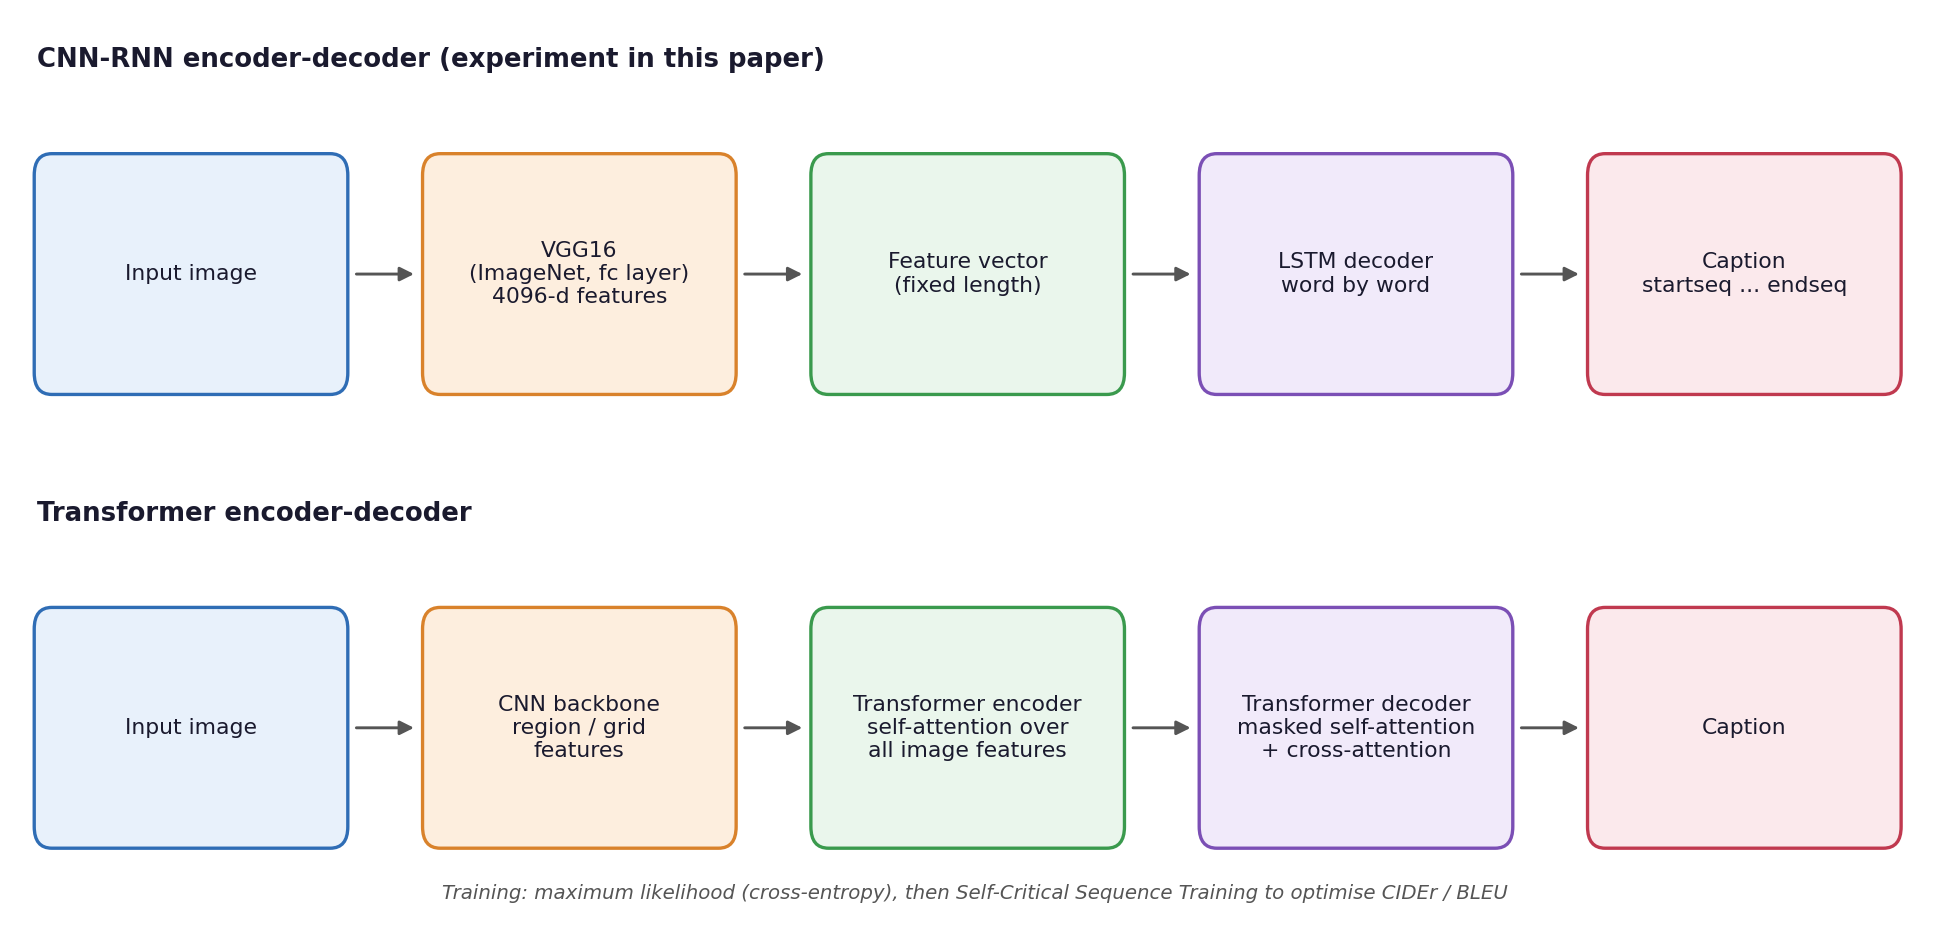
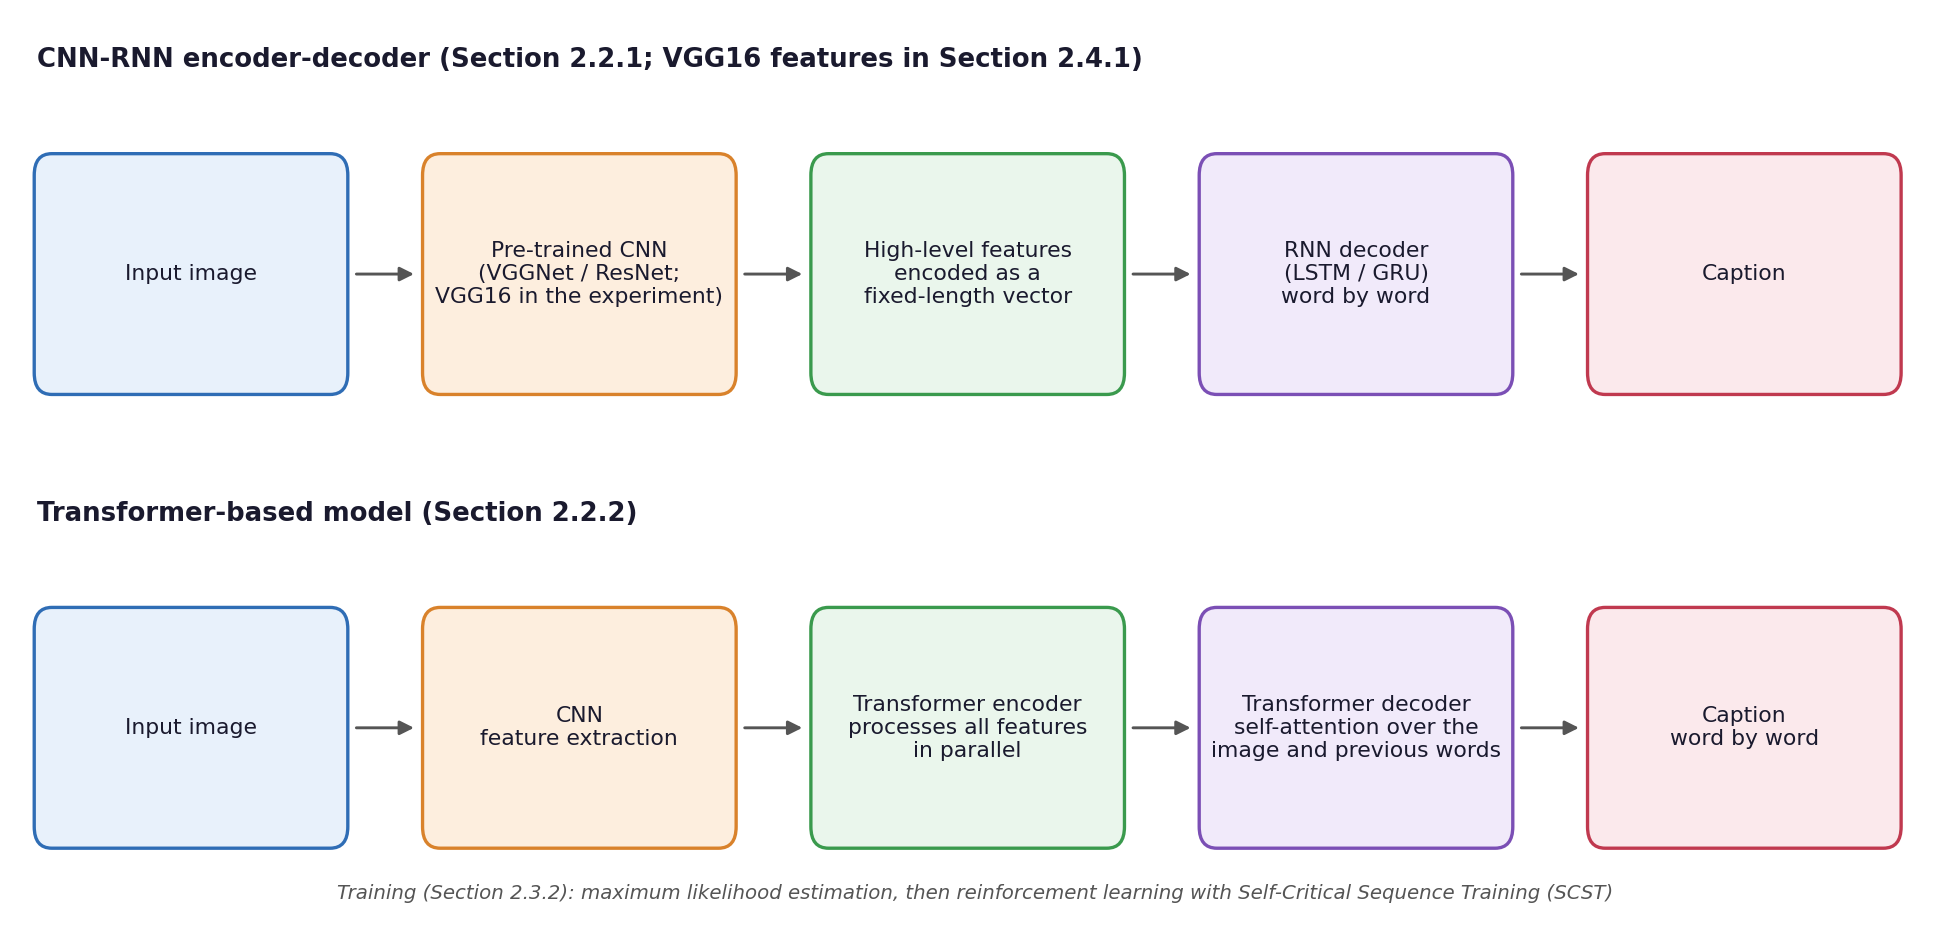
Align README and architecture diagram strictly with the paper; separate notebook notes

diff --git a/README.md b/README.md
@@ -2,11 +2,11 @@
 
 # Image Captioning: Transforming Objects into Words
 
-**From CNN-RNN encoder-decoders to Transformers: a review of deep-learning image captioning, with a VGG16 + LSTM experiment**
+**From CNN-RNN models to Transformers: a review of deep-learning image captioning, with a VGG16-based experiment**
 
 ![Field](https://img.shields.io/badge/field-Computer%20Vision%20%2B%20NLP-2f6db5)
 ![Models](https://img.shields.io/badge/models-VGG16%20%7C%20LSTM%20%7C%20Transformer-7b4fb5)
-![Data](https://img.shields.io/badge/data-MSCOCO%20%7C%20Flickr30k-3a9a4d)
+![Data](https://img.shields.io/badge/datasets-MSCOCO%20%7C%20Flickr30k-3a9a4d)
 ![Type](https://img.shields.io/badge/type-seminar%20paper-d9822b)
 
 [Read the paper (PDF)](paper/Image_Captioning_Transforming_Objects_into_Words.pdf) · [Open the notebook](code/image_captioning.ipynb)
@@ -20,46 +20,44 @@ Trends in Natural Language Processing (NLP Seminar) · Universität Trier · Sum
 
 ## Overview
 
-Image captioning sits where computer vision meets natural language processing. A model receives an image and
-writes a sentence that names the objects in it, how they relate to each other and the scene they belong to.
-Good captions make images accessible to blind and low-vision users, improve content-based image search and
-enable richer human-computer interaction.
+Image captioning lies at the intersection of computer vision and natural language processing: a model takes an
+image as input and produces a textual description of the objects in it, the relations between them and their
+context. Applications include accessibility for blind users, content-based image retrieval and more
+sophisticated human-computer interaction (Section 1.1).
 
-This paper traces how captioning models developed between 2015 and 2024, compares the two dominant
-architecture families on the MSCOCO and Flickr30k benchmarks, and trains a CNN-RNN captioner on an assistive
-dataset for visually impaired users (traffic signals, banknotes, ATMs, stairs, bus stops).
+The paper reviews deep-learning image captioning developments from 2015 to 2024, covering Convolutional Neural
+Networks, Recurrent Neural Networks and Transformers, and studies model architecture, data preprocessing,
+training and evaluation metrics (Abstract, Sections 1.2 and 2).
 
-**Research question**
+**Research question (Section 1.3)**
 
-> How can image captioning models be optimised to produce more accurate and contextually relevant descriptions?
+> How can image captioning models be optimized to produce more accurate and contextually relevant descriptions?
 
 ## Architecture
 
 ![Architecture](assets/architecture.png)
 
-| | CNN-RNN encoder-decoder | Transformer encoder-decoder |
+| | CNN-RNN models (Section 2.2.1) | Transformer-based models (Section 2.2.2) |
 |---|---|---|
-| **Visual encoder** | Pre-trained CNN (VGGNet, ResNet) compresses the image into one fixed-length vector | CNN features are passed as a sequence to a Transformer encoder |
-| **Language decoder** | LSTM or GRU generates the caption word by word | Transformer decoder attends to every image feature and every previous word |
-| **Strengths** | Fluent, grammatical sentences; light on compute and data | Captures long-range relations between objects; more accurate, context-aware captions |
-| **Weaknesses** | Focuses on local dependencies and can miss scene context | Computationally heavy; needs much more training data |
+| **Encoder** | A pre-trained CNN (e.g. VGGNet, ResNet) extracts high-level features, encoded into a fixed-length vector | CNN features are passed to Transformer encoders, which process all features in parallel |
+| **Decoder** | An RNN, often LSTM or GRU, generates the sentence conditioned on the previously generated words | A Transformer decoder generates the caption word by word, using self-attention over the whole image and all previous words |
+| **Strengths** | Fluent, grammatically correct sentences, since RNNs capture temporal dependencies between words | Captures complex relations in the image and between image and text, often giving more accurate, context-appropriate captions |
+| **Weaknesses** | Focus on local dependencies; long-range relationships can be missed, leaving out crucial context | Computationally heavier than RNN-based models and need much more training data |
 
-## Experimental setup
+## Experimental setup (Section 2.3)
 
-| Component | Details |
+| Component | Details from the paper |
 |---|---|
-| **Benchmarks reviewed** | MSCOCO (330,000 images, 5 human captions each) and Flickr30k (30,000 images, 5 captions each) |
-| **Experiment data** | Assistive-scene dataset for visually impaired users: 1,600 images with captions, split 80/20 by image; vocabulary of 150 words, captions up to 18 tokens |
-| **Feature extraction** | VGG16 pre-trained on ImageNet; 4096-d output of the last fully connected layer |
-| **Text preprocessing** | Tokenisation, lowercasing, `startseq` / `endseq` tokens around each caption |
-| **Caption model** | Image branch: Dense(256) on VGG16 features. Text branch: Embedding(256). The image vector is prepended to the word sequence, fed to an LSTM(256), added back to the image vector, then Dense(128) and a softmax over the vocabulary; dropout 0.5 |
-| **Training** | Custom Keras data generator yielding (image feature, caption prefix) to next-word pairs; categorical cross-entropy, Adam, batch size 64, 5 epochs. Self-Critical Sequence Training (SCST) is discussed for optimising non-differentiable metrics |
-| **Decoding** | Greedy search from `startseq` until `endseq` or the maximum length |
-| **Evaluation metrics** | BLEU (n-gram overlap), METEOR (synonyms, stemming, paraphrase), CIDEr (consensus with reference captions) |
+| **Datasets** | MSCOCO: 330,000 images, each annotated by five different people. Flickr30k: 30,000 images, each paired with five captions |
+| **Feature extraction** | Different CNN architectures compared for their influence on caption quality; in the experiment, a VGG16 model pre-trained on ImageNet with the last fully connected layer giving a 4096-dimensional output (Section 2.4.1) |
+| **Text preprocessing** | Tokenisation, lowercasing and start/end tokens added to each caption (Section 2.4.1) |
+| **Data generator** | Custom generator yielding batches of image features with their text sequences (Section 2.4.1) |
+| **Training** | Two stages: maximum likelihood estimation, then reinforcement learning with Self-Critical Sequence Training (SCST), which helps optimise non-differentiable metrics such as BLEU and CIDEr |
+| **Evaluation metrics** | BLEU (n-gram overlap with reference captions), METEOR (adds synonymy, stemming and paraphrasing; often correlates better with human judgement), CIDEr (consensus between captions describing the same image) |
 
-## Results
+## Results (Section 2.4)
 
-### Training behaviour
+### Training and validation loss
 
 | Epoch | Training loss | Validation loss |
 |:---:|:---:|:---:|
@@ -69,43 +67,43 @@ dataset for visually impaired users (traffic signals, banknotes, ATMs, stairs, b
 | 4 | 0.8912 | 5.9295 |
 | 5 | 0.6910 | 6.2870 |
 
-<p align="center"><img src="assets/model_loss.png" width="85%" alt="Training and validation loss"></p>
+<p align="center"><img src="assets/model_loss.png" width="85%" alt="Figure 1: model loss"></p>
+<p align="center"><i>Figure 1 of the paper: model loss</i></p>
 
-Training loss falls from 4.24 to 0.69, while validation loss starts rising after epoch 2 and ends at 6.29.
-The widening gap shows that the model memorises the training captions instead of learning features that
-generalise.
+Training loss decreased from 4.2383 to 0.6910 over five epochs, while validation loss started to rise after the
+second epoch and reached 6.2870, indicating overfitting (Section 2.4.2). The paper attributes the gap to a dataset
+that was too small and lacked proper regularisation, or to augmentation techniques that were too simple.
 
-### Generated captions
+### Caption prediction
 
-| Image | Reference caption | Generated caption |
+Sample images were drawn from the training set and the generated captions compared with the ground truth
+(Section 2.4.3):
+
+| Image | Ground truth | Predicted caption |
 |---|---|---|
-| greensig1.jpg | Green signal please walk. | green signal please walk |
-| playing50.jpg | Children at play in the park. | kids are playing in the park |
+| greensig1.jpg | Green signal please walk. | startseq green signal please walk endseq |
+| playing50.jpg | Children at play in the park. | startseq kids are playing in the park endseq |
 
-<p align="center"><img src="assets/caption_predictions.png" width="90%" alt="Generated captions on assistive-scene images"></p>
-
-On the assistive scenes (banknotes, ATMs, stairs, bus stops, road works; sampled from the training split),
-the model describes the scene type reliably ("please be careful upstairs ahead", "people are waiting at the bus stop"),
-but confuses fine-grained details, for example reading a 200 euro note as a ten euro note and a 50 pound note as
-twenty pounds, even though these images were seen during training.
+<p align="center"><img src="assets/caption_predictions.png" width="90%" alt="Figure 2: caption prediction"></p>
+<p align="center"><i>Figure 2 of the paper: caption prediction</i></p>
 
 ## Key findings
 
-1. **Transformers outperform CNN-RNN models.** Self-attention relates every image region to every word, which
-   gives more accurate and context-appropriate captions.
-2. **Attention and strong visual features drive caption quality.** Attention lets the decoder focus on the
-   relevant image region for each word it generates.
-3. **Small-data training overfits quickly.** Stronger dropout, L2 regularisation, early stopping, data
-   augmentation and hyperparameter tuning are needed.
-4. **Automatic metrics are imperfect.** BLEU rewards n-gram overlap but captures fluency and coherence poorly;
-   METEOR and CIDEr correlate better with human judgement.
+1. **Transformers advanced the state of the art** (Sections 2.5 and 3). Moving from CNN-RNN to deep Transformer
+   models significantly improved captioning accuracy and contextual quality.
+2. **Attention mechanisms are central** (Sections 2.5 and 3). They let the model focus on the relevant regions of an
+   image while generating each word, giving more accurate and detailed captions.
+3. **Transformers come at a cost** (Section 2.2.2). They are computationally heavier than RNN-based models and
+   need much more training data.
+4. **The experiment overfitted** (Sections 2.4.2 and 2.4.4). Stricter dropout, L2 regularisation, early stopping
+   and hyperparameter optimisation are proposed to reduce it.
+5. **BLEU has limits** (Section 2.3.3). It is widely used but questionable for measuring fluency and coherence;
+   METEOR often correlates better with human judgement.
 
-## Future work
+## Future work (Section 2.5)
 
-- Fix the evaluation loop and report BLEU, METEOR and CIDEr on held-out images.
-- Regularise the CNN-RNN baseline (early stopping, augmentation) and replace VGG16 with a stronger backbone (ResNet, ViT).
-- Train a Transformer captioner on the same data for a direct comparison.
-- Add further modalities such as audio and video for richer descriptions.
+- Integrate other modalities, such as audio or video, into image captioning models.
+- Reduce overfitting through regularisation and hyperparameter optimisation (Section 2.4.4).
 
 ## Code
 
@@ -116,7 +114,7 @@ with its original outputs. It covers:
 2. Tokenisation and an 80/20 train/validation split by image
 3. VGG16 feature extraction (penultimate layer, 4096-d) for every image
 4. A custom `Sequence` data generator producing next-word training pairs
-5. The merge-style CNN + LSTM caption model, training and the loss curve
+5. The CNN + LSTM caption model, training and the loss curve
 6. Greedy caption generation and sample predictions
 7. A BLEU evaluation cell
 
@@ -132,15 +130,19 @@ jupyter notebook code/image_captioning.ipynb
 Set `image_path` and the caption file path in the second and third cells to your copy of the dataset. The dataset
 itself is not included in this repository.
 
-### Known limitations of the notebook
+### Notes on the notebook
 
-- The sample predictions shown above are drawn from the **training** split (`train.sample(15)`), so they show what
-  the model memorised, not how it generalises.
-- The BLEU cell loops over the DataFrame's column names instead of the test images and reuses the last predicted
-  image, so its printed scores (BLEU-1 1.00, BLEU-2 0.93) are not a valid evaluation and are not reported here.
-- Images are scaled to [0, 1] instead of using VGG16's `preprocess_input`, which weakens the pre-trained features.
-- Early stopping and learning-rate scheduling are defined but commented out, which explains the rising
-  validation loss after epoch 2.
+These notes describe the code as published; they are not claims made in the paper.
+
+- The notebook trains on a caption dataset of 1,600 images loaded from a local `visuallyimpair` folder (traffic
+  signals, banknotes, ATMs, stairs, bus stops), with an 80/20 train/validation split by image.
+- The caption model combines a Dense(256) image branch with an Embedding(256) + LSTM(256) text branch, followed
+  by Dense(128) and a softmax over a 150-word vocabulary; it is trained with categorical cross-entropy and Adam for
+  5 epochs. SCST is not implemented in the notebook.
+- Sample predictions use `train.sample(15)`, i.e. training images, as stated in Section 2.4.3.
+- The final BLEU cell loops over the DataFrame's column names rather than the test images, so its printed scores
+  are not a valid evaluation and are not reported here.
+- Early stopping and learning-rate scheduling are defined but commented out.
 
 ## Citation
 
